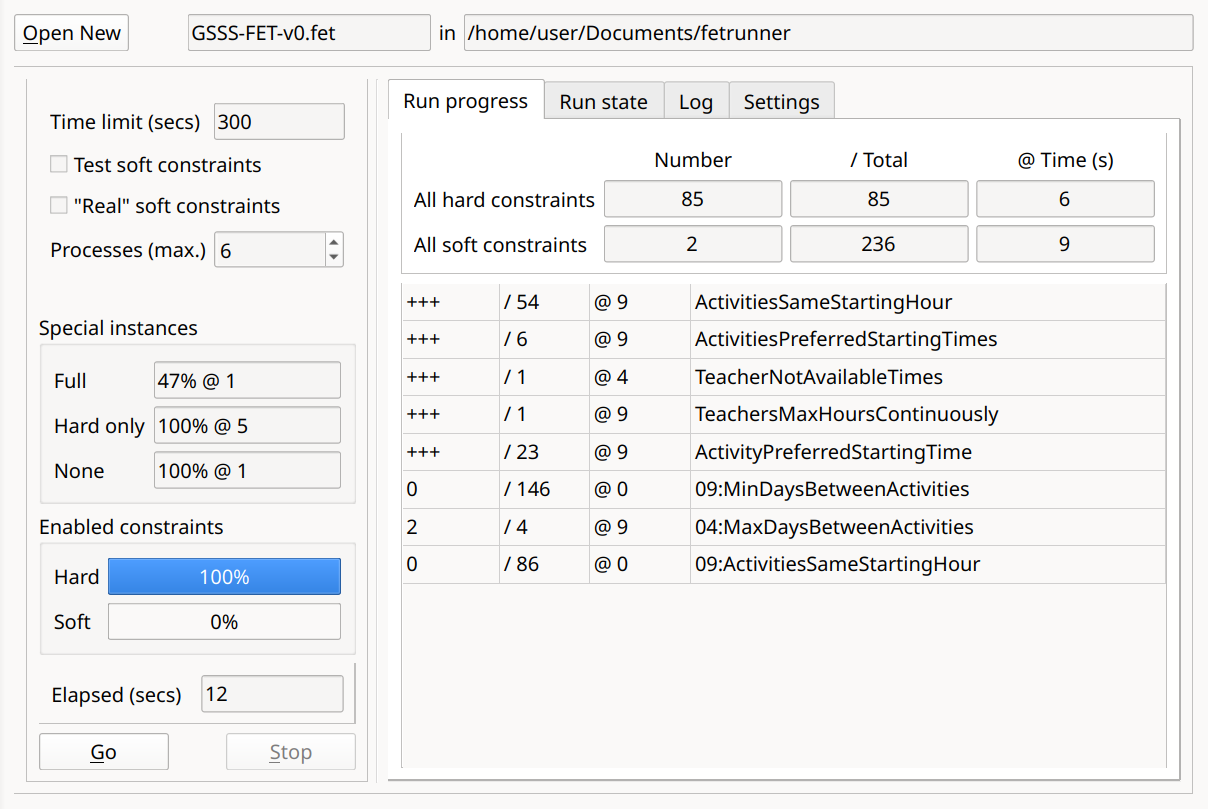
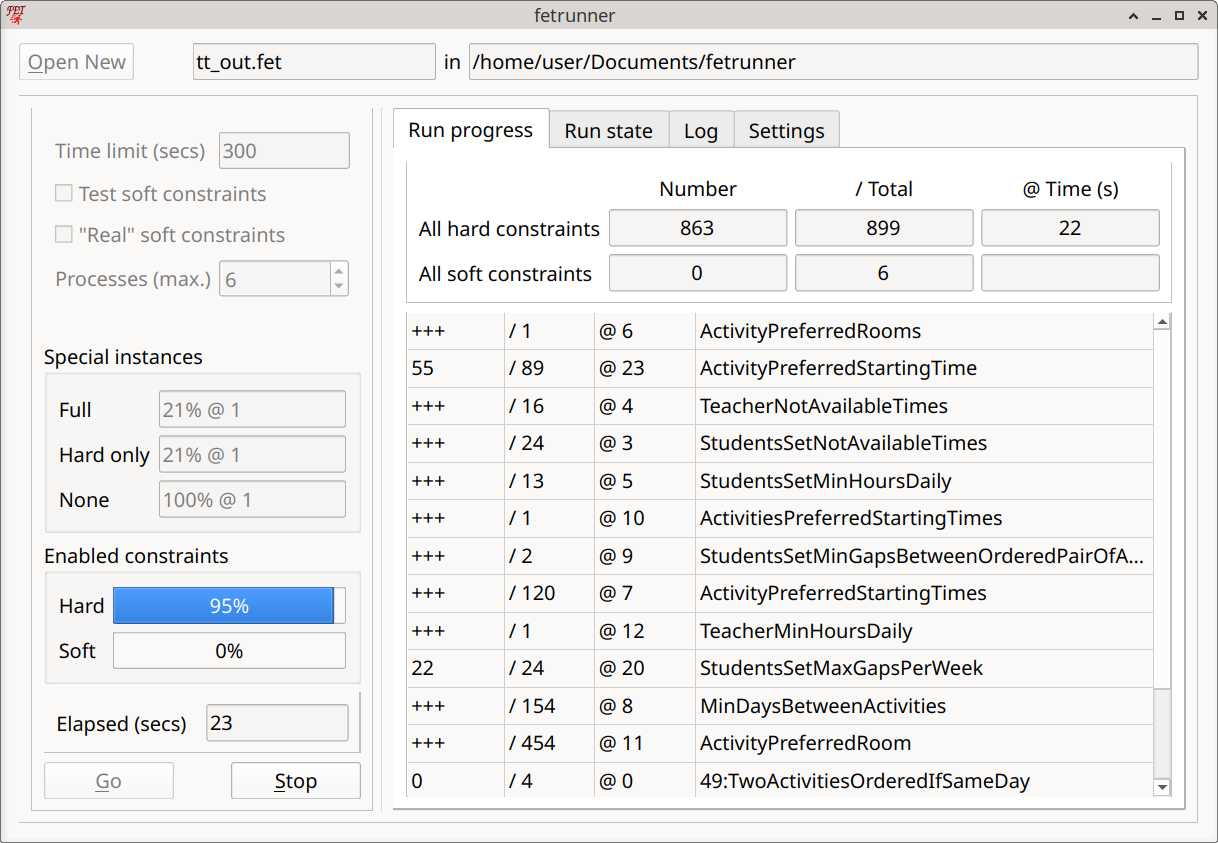
Tidying, add fetrunner version in GUI

Changed region(s): [[0.0, 0.0, 1.0, 1.0], [0.0306, 0.4635, 0.0919, 0.4944]]

diff --git a/gui/translations/fetrunner-gui_de.ts b/gui/translations/fetrunner-gui_de.ts
@@ -149,23 +149,6 @@
         <translation>Alle verbindlichen Bedingungen</translation>
     </message>
     <message>
-        <location filename="../mainwindow.ui" line="656"/>
-        <location filename="../mainwindow.ui" line="925"/>
-        <source>Sizes</source>
-        <translation>Größen</translation>
-    </message>
-    <message>
-        <location filename="../mainwindow.ui" line="661"/>
-        <location filename="../mainwindow.ui" line="930"/>
-        <source>Finished</source>
-        <translation>abgeschlossen</translation>
-    </message>
-    <message>
-        <location filename="../mainwindow.ui" line="666"/>
-        <source>Running Soft</source>
-        <translation>laufende Unverbindlichiche</translation>
-    </message>
-    <message>
         <location filename="../mainwindow.ui" line="671"/>
         <source>Accepted</source>
         <translation>aufgenommen</translation>
@@ -189,54 +172,14 @@
         <translation>Bedingung</translation>
     </message>
     <message>
-        <location filename="../mainwindow.ui" line="765"/>
-        <source>A completed hard constraint type</source>
-        <translation>Eine vollständige verbindliche Bedingung</translation>
-    </message>
-    <message>
-        <location filename="../mainwindow.ui" line="794"/>
-        <source>58:A soft constraint type, not yet complete</source>
-        <translation>58:Eine unverbindliche Bedingungen, noch laufend</translation>
-    </message>
-    <message>
         <location filename="../mainwindow.ui" line="809"/>
         <source>Completed:</source>
-        <translation type="unfinished"></translation>
-    </message>
-    <message>
-        <location filename="../mainwindow.ui" line="854"/>
-        <source>27</source>
-        <translation type="unfinished"></translation>
-    </message>
-    <message>
-        <location filename="../mainwindow.ui" line="862"/>
-        <source>54</source>
-        <translation type="unfinished"></translation>
-    </message>
-    <message>
-        <location filename="../mainwindow.ui" line="870"/>
-        <source>Some constraint</source>
-        <translation type="unfinished"></translation>
-    </message>
-    <message>
-        <location filename="../mainwindow.ui" line="875"/>
-        <source>--- [124]</source>
-        <translation type="unfinished"></translation>
-    </message>
-    <message>
-        <location filename="../mainwindow.ui" line="883"/>
-        <source>15</source>
-        <translation type="unfinished"></translation>
-    </message>
-    <message>
-        <location filename="../mainwindow.ui" line="891"/>
-        <source>Rejected constraint</source>
-        <translation type="unfinished"></translation>
+        <translation>Abgeschlossen:</translation>
     </message>
     <message>
         <location filename="../mainwindow.ui" line="899"/>
         <source>Currently running:</source>
-        <translation type="unfinished"></translation>
+        <translation>Aktuelle Prozesse:</translation>
     </message>
     <message>
         <location filename="../mainwindow.ui" line="935"/>
@@ -244,20 +187,15 @@
         <translation>Stand</translation>
     </message>
     <message>
+        <location filename="../mainwindow.ui" line="1198"/>
+        <source>&lt;html&gt;&lt;head/&gt;&lt;body&gt;&lt;p&gt;&lt;span style=&quot; font-weight:700;&quot;&gt;fetrunner&lt;/span&gt; version&lt;/p&gt;&lt;/body&gt;&lt;/html&gt;</source>
+        <translation>&lt;html&gt;&lt;head/&gt;&lt;body&gt;&lt;p&gt;&lt;span style=&quot; font-weight:700;&quot;&gt;fetrunner&lt;/span&gt;-Version&lt;/p&gt;&lt;/body&gt;&lt;/html&gt;</translation>
+    </message>
+    <message>
         <location filename="../mainwindow.ui" line="839"/>
         <location filename="../mainwindow.ui" line="940"/>
         <source>Constraints</source>
         <translation>Bedingungen</translation>
-    </message>
-    <message>
-        <location filename="../mainwindow.ui" line="829"/>
-        <source>01</source>
-        <translation type="unfinished"></translation>
-    </message>
-    <message>
-        <location filename="../mainwindow.ui" line="834"/>
-        <source>02</source>
-        <translation type="unfinished"></translation>
     </message>
     <message>
         <location filename="../mainwindow.ui" line="945"/>
@@ -270,16 +208,6 @@
         <translation>Timeout</translation>
     </message>
     <message>
-        <location filename="../mainwindow.ui" line="992"/>
-        <source>02:Constraint name</source>
-        <translation>02:Name der Bedingung</translation>
-    </message>
-    <message>
-        <location filename="../mainwindow.ui" line="1029"/>
-        <source>Some completed instance</source>
-        <translation>ein erfolgreich gelaufener Prozess</translation>
-    </message>
-    <message>
         <location filename="../mainwindow.ui" line="1038"/>
         <source>Log</source>
         <translation>Log</translation>
@@ -290,8 +218,8 @@
         <translation>Einstellungen</translation>
     </message>
     <message>
-        <location filename="../mainwindow.ui" line="1098"/>
-        <location filename="../mainwindow.ui" line="1135"/>
+        <location filename="../mainwindow.ui" line="1088"/>
+        <location filename="../mainwindow.ui" line="1125"/>
         <source>Default</source>
         <translation>Voreinstellung</translation>
     </message>
@@ -301,23 +229,23 @@
         <translation>Zwischendateien</translation>
     </message>
     <message>
-        <location filename="../mainwindow.ui" line="1142"/>
+        <location filename="../mainwindow.ui" line="1132"/>
         <source>FET version</source>
         <translation>FET-Version</translation>
     </message>
     <message>
-        <location filename="../mainwindow.ui" line="1091"/>
-        <location filename="../mainwindow.ui" line="1128"/>
+        <location filename="../mainwindow.ui" line="1081"/>
+        <location filename="../mainwindow.ui" line="1118"/>
         <source>Select</source>
         <translation>Wählen</translation>
     </message>
     <message>
-        <location filename="../mainwindow.ui" line="1121"/>
+        <location filename="../mainwindow.ui" line="1111"/>
         <source>FET command</source>
         <translation>FET-Befehl</translation>
     </message>
     <message>
-        <location filename="../mainwindow.ui" line="1074"/>
+        <location filename="../mainwindow.ui" line="1188"/>
         <source>Folder for temporary files, preferably RAM-drive (or other in-memory &quot;device&quot;)</source>
         <translation>Ordner für Zwischendateien, idealerweise RAM-Drive (oder Ähnliches)</translation>
     </message>
@@ -327,52 +255,52 @@
         <translation>Prozess-Status</translation>
     </message>
     <message>
-        <location filename="../mainwindow.ui" line="1211"/>
+        <location filename="../mainwindow.ui" line="1155"/>
         <source>... with &quot;_&quot; prefix, in the folder containing the source file</source>
         <translation>... mit vorangestelltem „_“, im Ordner der Quelldatei</translation>
     </message>
     <message>
-        <location filename="../mainwindow.ui" line="1214"/>
+        <location filename="../mainwindow.ui" line="1158"/>
         <source>Generate fully-constrained FET file</source>
         <translation>FET-Datei mit allen Bedingungen erstellen</translation>
     </message>
     <message>
-        <location filename="../mainwindow.cpp" line="226"/>
+        <location filename="../mainwindow.cpp" line="228"/>
         <source>Open Timetable Specification File</source>
         <translation>Öffne Stundenplanungsdatei</translation>
     </message>
     <message>
-        <location filename="../mainwindow.cpp" line="228"/>
+        <location filename="../mainwindow.cpp" line="230"/>
         <source>FET / W365 Files (*.fet *_w365.json)</source>
         <translation>FET- / W365- Dateien (*.fet *_w365.json)</translation>
     </message>
     <message>
-        <location filename="../mainwindow.cpp" line="303"/>
+        <location filename="../mainwindow.cpp" line="305"/>
         <source>Seek FET executable</source>
         <translation>Suche FET-Befehl</translation>
     </message>
     <message>
-        <location filename="../mainwindow.cpp" line="305"/>
+        <location filename="../mainwindow.cpp" line="307"/>
         <source>FET executable</source>
         <translation>FET-Befehl</translation>
     </message>
     <message>
-        <location filename="../mainwindow.cpp" line="334"/>
+        <location filename="../mainwindow.cpp" line="336"/>
         <source>FET not found</source>
         <translation>FET nicht gefunden</translation>
     </message>
     <message>
-        <location filename="../mainwindow.cpp" line="335"/>
+        <location filename="../mainwindow.cpp" line="337"/>
         <source>Seek &apos;FET&apos; command-line executable in file system</source>
         <translation>Suche &apos;FET&apos;-Kommandozeilenbefehl im Dateisystem</translation>
     </message>
     <message>
-        <location filename="../mainwindow.cpp" line="345"/>
+        <location filename="../mainwindow.cpp" line="347"/>
         <source>Finishing ...</source>
         <translation>Prozesse werden abgeschlossen ...</translation>
     </message>
     <message>
-        <location filename="../mainwindow.cpp" line="355"/>
+        <location filename="../mainwindow.cpp" line="357"/>
         <source>Select base folder for temporary files</source>
         <translation>Basis-Ordner für Zwischendateien wählen</translation>
     </message>

diff --git a/dispatch.go b/dispatch.go
@@ -112,6 +112,7 @@ func CheckArgs(l *base.Logger, op *DispatchOp, n int) bool {
 }
 
 func init() {
+	OpHandlerMap["VERSION"] = fetrunner_version
 	OpHandlerMap["GET_FET"] = get_fet
 	OpHandlerMap["SET_FILE"] = file_loader
 	OpHandlerMap["RUN_TT_SOURCE"] = runtt_source
@@ -125,6 +126,12 @@ func init() {
 	OpHandlerMap["TT_PARAMETER"] = ttparameter
 	OpHandlerMap["TMP_PATH"] = set_tmp
 	OpHandlerMap["N_PROCESSES"] = nprocesses
+}
+
+func fetrunner_version(dsp *Dispatcher, op *DispatchOp) {
+	if CheckArgs(dsp.BaseData.Logger, op, 0) {
+		dsp.BaseData.Logger.Result("FETRUNNER_VERSION", VERSION)
+	}
 }
 
 func set_tmp(dsp *Dispatcher, op *DispatchOp) {

diff --git a/gui/mainwindow.cpp b/gui/mainwindow.cpp
@@ -15,6 +15,8 @@ MainWindow::MainWindow(QWidget *parent)
     backend = new Backend();
     init_ttgen_tables();
 
+    ui->fetrunner_version->setText(backend->op1("VERSION", {}, "FETRUNNER_VERSION").val);
+
     // Get range for number of processes.
     // Do this before connecting the "valueChanged" signal, to
     // avoid triggering this before any actual change.

diff --git a/version.go b/version.go
@@ -1,3 +1,3 @@
 package fetrunner
 
-const VERSION = "0.9.12"
+const VERSION = "0.10.0"
